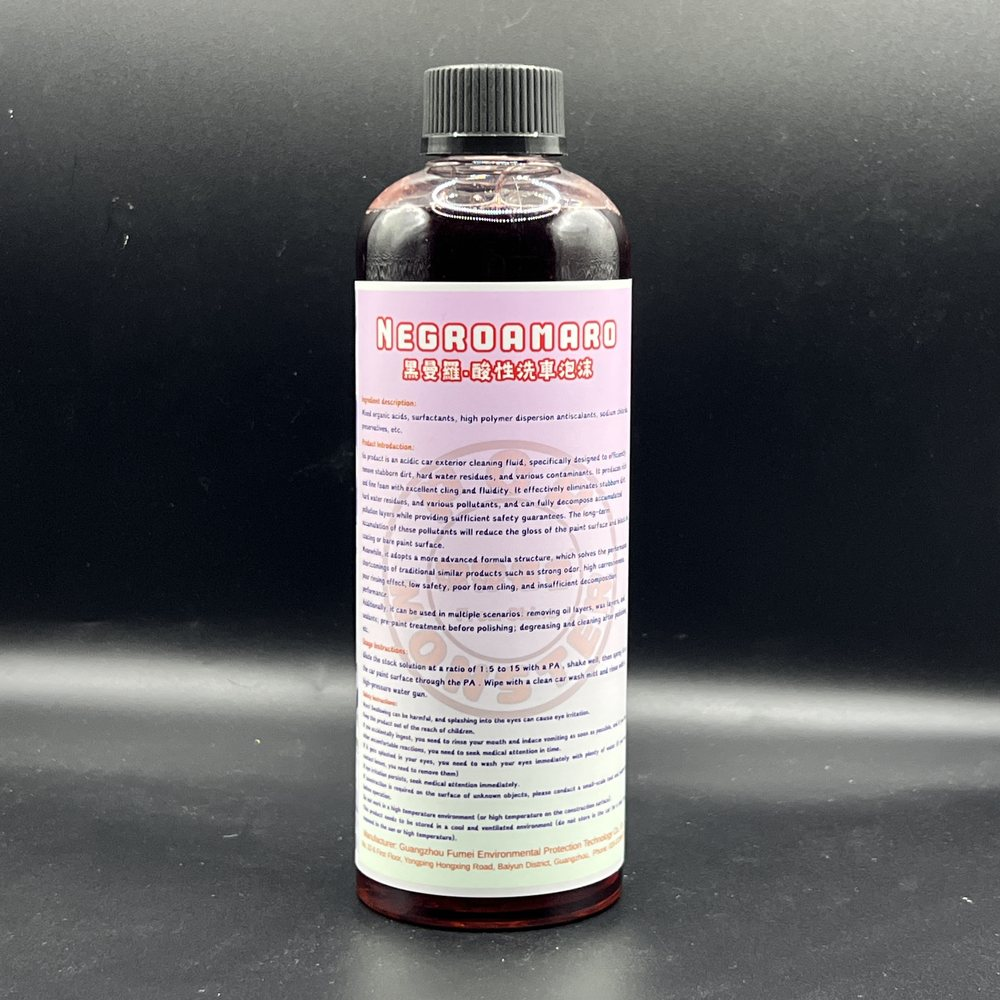
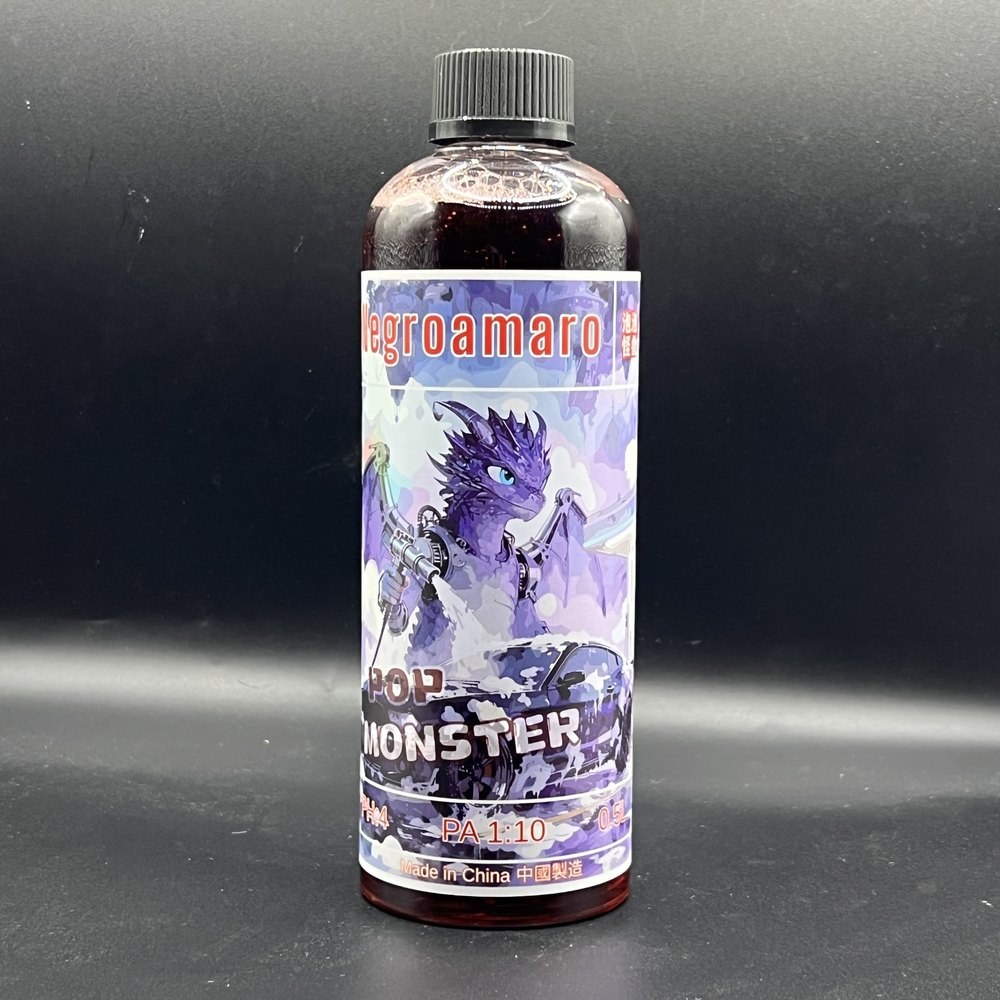
商品主圖：A041 從占位換成乾淨棚拍、A046 從背標換成正面
素材來源：Google 相簿地毯式搜尋（Drive 1,709 張＋相簿 19 本＋搜尋「瓶子」717／
「拋光」697／「泡泡怪獸」31，本機 Photos originals 為 0 檔）。
檔名關鍵字完全找不到 A041——是用「跟已知乾淨棚拍比相似度」（邊框亮度／飽和度／
邊緣密度等 8 維特徵）排序前 96 張逐張看出來的。

## A041 米速鍍鉻拋光劑（11 支缺主圖之一，命中）
原本 img/a041-main.jpg 是帶大字的行銷橫幅，左上角還印著字體名「MiSans」。
換成同一場棚拍的乾淨單品照。
⚠ 原始雙瓶照的右瓶是背標，印著代工廠名稱、廣州地址與電話——已裁掉只留左瓶正面，
   缺口用原圖逐列中位數背景補齊（保留垂直漸層與地面光帶），左右各羽化 40px 無接縫。

## A046 黑曼羅酸性洗車泡沫
原本掛的是背標：密密麻麻英文成分表，且清楚可讀代工廠名稱與廣州地址。
換成正面（怪獸圖標籤）。這是供應鏈資訊外洩，不只是美觀問題。

## 動到的地方
- img/a041-main.jpg、img/a046-main.jpg（皆 1000×1000，對齊站上其餘 21 張規格）
- js/products.js：A041 的 img 由空字串接上檔名
- a041.html：hero 由墨紙占位換成 <img>
- index.html：A041 卡片由墨紙占位換成 <img>（首頁卡片是寫死的，改 products.js 不會動到）

## 驗證
63/63 pytest 全過；本機起站實測首頁 32 張卡片中有真圖者 21→22、墨紙占位 11→10；
a041/a046 商品頁 hero 正常渲染；零 console error。

diff --git a/js/products.js b/js/products.js
@@ -74,7 +74,7 @@ window.PM_PRODUCTS = [
   { sku:"A038", name:"包膜店專用除膠劑", cat:"清潔系列", img:"", url:"a038.html", tagline:"包膜師傅指定 · 殘膠溶解去除", get price(){ return window.PM_PRICES[this.sku] || null; } },
   { sku:"A039", name:"RO 訂製羊毛盤 素黑軟漆專用", cat:"耗材系列", img:"img/a039-main.jpg", url:"a039.html", tagline:"重切削首選 · 合成羊毛不噴毛", get price(){ return window.PM_PRICES[this.sku] || null; } },
   { sku:"A040", name:"米速 RO 商用重切拋光劑", cat:"研磨系列", img:"", url:"a040.html", tagline:"店家產能翻倍 · P800-P1200 職人級", get price(){ return window.PM_PRICES[this.sku] || null; } },
-  { sku:"A041", name:"米速鍍鉻拋光劑", cat:"研磨系列", img:"", url:"a041.html", tagline:"鍍鉻件去氧化 · 光澤完全恢復", get price(){ return window.PM_PRICES[this.sku] || null; } },
+  { sku:"A041", name:"米速鍍鉻拋光劑", cat:"研磨系列", img:"img/a041-main.jpg", url:"a041.html", tagline:"鍍鉻件去氧化 · 光澤完全恢復", get price(){ return window.PM_PRICES[this.sku] || null; } },
   { sku:"A042", name:"柔和真皮清潔劑（慕斯款）", cat:"護理系列", img:"", url:"a042.html", tagline:"慕斯泡沫護皮革 · 弱酸性深層護理", get price(){ return window.PM_PRICES[this.sku] || null; } },
   { sku:"A043", name:"柏油清潔劑", cat:"清潔系列", img:"img/a043-main.jpg", url:"a043.html", tagline:"柏油一抹即去 · 車漆安全無腐蝕", get price(){ return window.PM_PRICES[this.sku] || null; } },
   { sku:"A044", name:"超級泡沫洗車精 Super Foam", cat:"清潔系列", img:"img/a044-main.jpg", url:"a044.html", tagline:"洗車前置厚泡沫 · 高濃縮", get price(){ return window.PM_PRICES[this.sku] || null; } },

diff --git a/index.html b/index.html
@@ -363,7 +363,7 @@ try {
 <div class="card-img"><div class="ink-ph ink-ph--sm" aria-hidden="true"><span class="ink-ph-char">米</span><span class="ink-ph-seal">泡怪</span></div><span class="badge">A040</span></div>
 <div class="card-body"><div class="card-sku">A040</div><div class="card-name">米速 RO 商用重切拋光劑</div><div class="card-price" data-pm-price="A040"></div><span class="card-cat">研磨系列</span><span class="card-btn">查看詳情</span><span class="card-btn--cart" role="button" tabindex="0" data-pm-add="A040">加入購物車</span></div></a>
 <a href="a041.html" class="card fade-up" data-cat="compound">
-<div class="card-img"><div class="ink-ph ink-ph--sm" aria-hidden="true"><span class="ink-ph-char">米</span><span class="ink-ph-seal">泡怪</span></div><span class="badge">A041</span></div>
+<div class="card-img"><img src="img/a041-main.jpg" alt="米速鍍鉻拋光劑" width="400" height="400" loading="lazy" decoding="async"><span class="badge">A041</span></div>
 <div class="card-body"><div class="card-sku">A041</div><div class="card-name">米速鍍鉻拋光劑</div><div class="card-price" data-pm-price="A041"></div><span class="card-cat">研磨系列</span><span class="card-btn">查看詳情</span><span class="card-btn--cart" role="button" tabindex="0" data-pm-add="A041">加入購物車</span></div></a>
 <a href="a042.html" class="card fade-up" data-cat="care">
 <div class="card-img"><div class="ink-ph ink-ph--sm" aria-hidden="true"><span class="ink-ph-char">柔</span><span class="ink-ph-seal">泡怪</span></div><span class="badge">A042</span></div>

diff --git a/a041.html b/a041.html
@@ -75,7 +75,7 @@
 <div class="brand-tagline" role="doc-tip"><em>叁無</em><span class="x">×</span><em>重新定義汽美</em></div>
 <main style="padding-bottom:96px;">
 <div class="pd-hero" data-screen-label="01 Product Hero">
-  <div class="pd-img-wrap"><div class="ink-ph" aria-hidden="true"><span class="ink-ph-note">圖片整備中</span><span class="ink-ph-char">研</span><span class="ink-ph-seal">泡怪</span></div></div>
+  <div class="pd-img-wrap"><img src="img/a041-main.jpg" alt="米速鍍鉻拋光劑" width="1000" height="1000" loading="eager" decoding="async" style="width:100%;height:auto;aspect-ratio:1;object-fit:cover;display:block;"></div>
   <div class="pd-info-wrap">
     <nav class="pd-breadcrumb"><a href="index.html">全部商品</a><span class="sep">›</span><span>米速鍍鉻拋光劑</span></nav>
     <div class="pd-sku-tag"><span class="dot"></span>PRODUCT · A041 · MISO</div>
